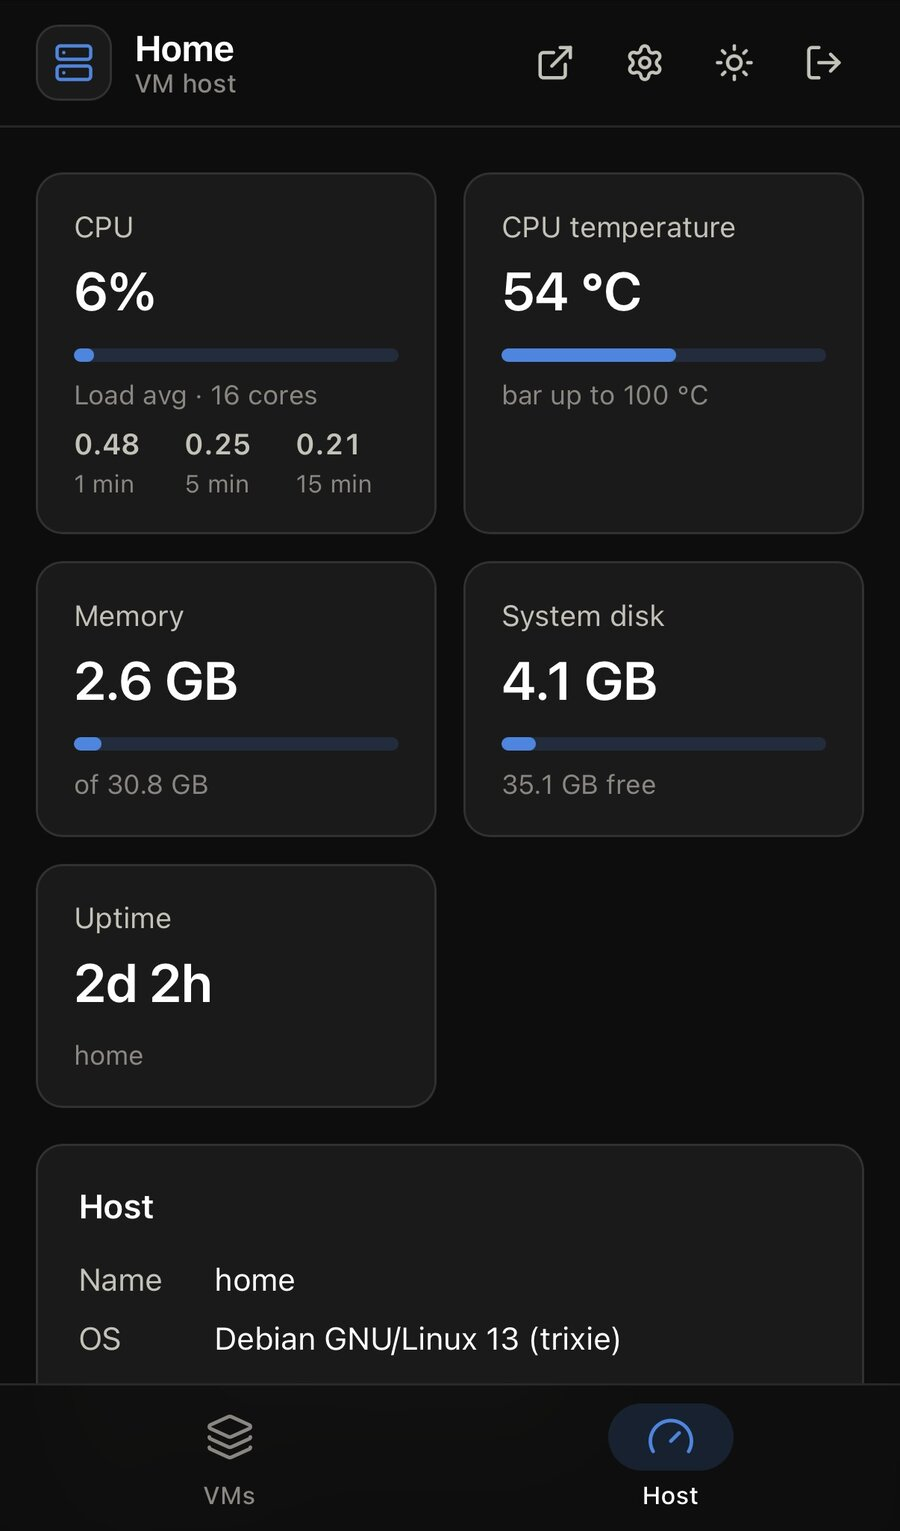
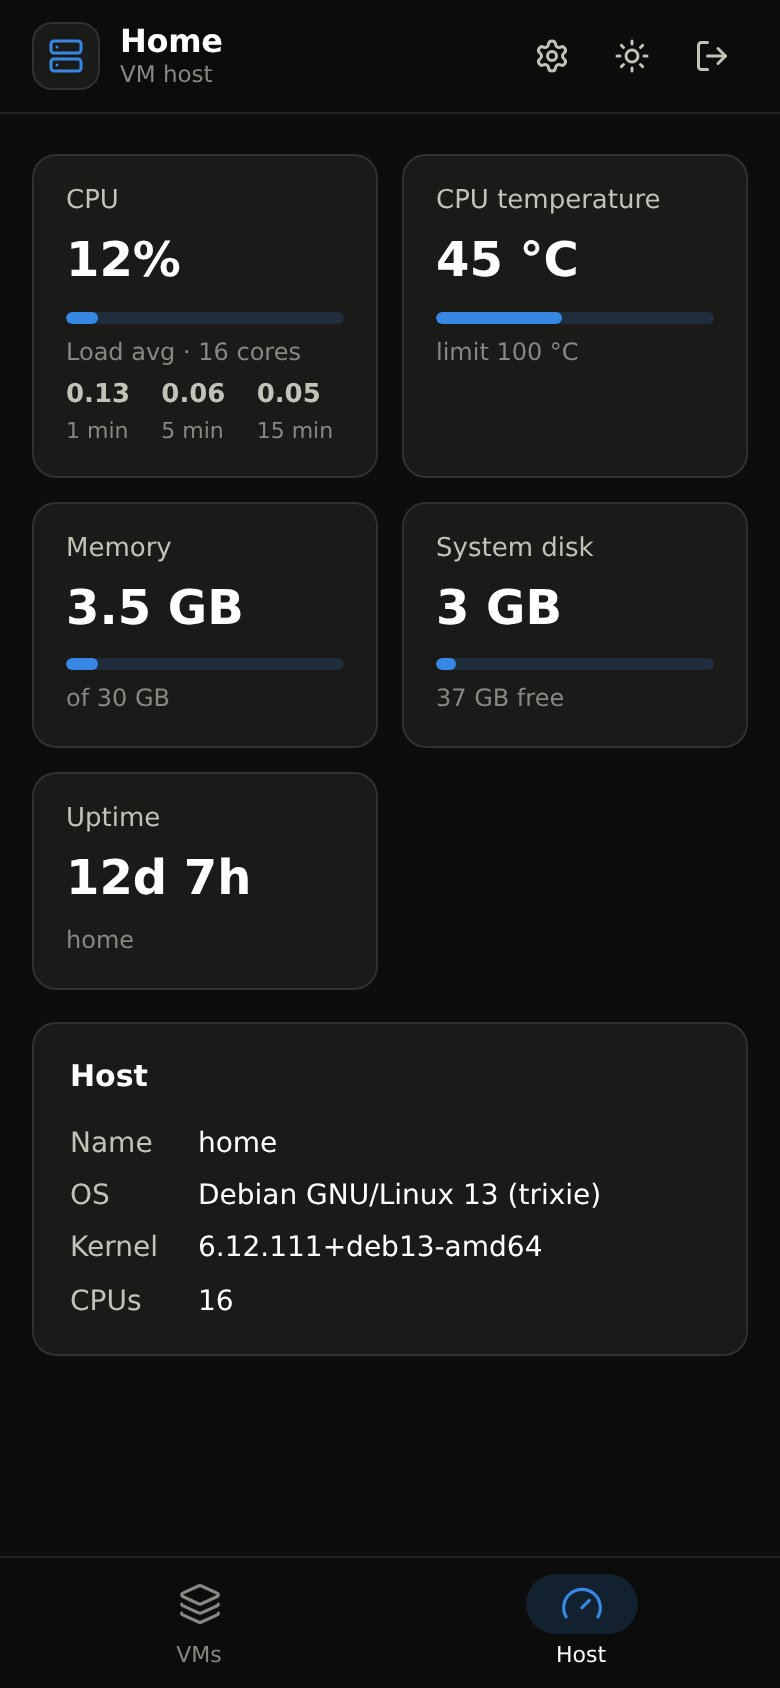
README: fresh screenshots of every screen (a gallery of 11, the top row now VMs, a VM, its console, the host), taken at phone width from the mock data
The mock data follows: a documentation address (203.0.113.7) for the router's WAN, and an update's output and
version as v0.5.0 prints them.

Claude-Session: https://claude.ai/code/session_01Uwz9VR6qc8qvTUDWKB8RYu

diff --git a/backend/HomeBackend/Features/Update/MockUpdateRunner.cs b/backend/HomeBackend/Features/Update/MockUpdateRunner.cs
@@ -8,13 +8,14 @@ public sealed class MockUpdateRunner : IUpdateRunner
     private static readonly TimeSpan Duration = TimeSpan.FromSeconds(6);
     private static readonly string[] Lines =
     [
-        "From github.com:poltavetsvolodymyr/home-ve",
-        "   b53fc33..4a74ac7  main       -> origin/main",
-        "Updating b53fc33..4a74ac7",
-        "4a74ac7 No underline on links; card hover only with a real pointer",
+        "channel stable: v0.4.0 -> v0.5.0",
+        "2a90a19 install.sh: no more taking PasswordHash out of config.json",
+        "==> downloading https://github.com/poltavetsvolodymyr/home-ve/releases/download/v0.5.0/home-ve-v0.5.0-linux-x64.tar.gz",
+        "==> build of 2a90a19 in place (v0.5.0/home-ve-v0.5.0-linux-x64.tar.gz)",
+        "==> version v0.5.0",
         "==> VM tools",
         "==> frontend -> /var/www/home",
-        "Done. The backend listens on 127.0.0.1:5000; nginx serves the UI (docs/deployment.md).",
+        "Done. The web UI: https://192.168.178.2/ (docs/deployment.md).",
     ];
 
     private readonly Lock _lock = new();
@@ -36,7 +37,7 @@ public sealed class MockUpdateRunner : IUpdateRunner
         return Task.FromResult(new UpdateStatus(done ? "succeeded" : "running", s, done ? s + Duration : null, log));
     }
 
-    public string? ReadVersion() => "v0.1.0-3-g4a74ac7";
+    public string? ReadVersion() => "v0.5.0";
 
     public Task StartAsync(CancellationToken ct)
     {

diff --git a/backend/HomeBackend/Features/Vms/MockVmHost.cs b/backend/HomeBackend/Features/Vms/MockVmHost.cs
@@ -98,7 +98,7 @@ public sealed class MockVmHost : IVmHost
             ? ("""
                {"return": [
                  {"name": "lo", "ip-addresses": [{"ip-address-type": "ipv4", "ip-address": "127.0.0.1", "prefix": 8}]},
-                 {"name": "ppp0", "ip-addresses": [{"ip-address-type": "ipv4", "ip-address": "84.150.12.7", "prefix": 32}]},
+                 {"name": "ppp0", "ip-addresses": [{"ip-address-type": "ipv4", "ip-address": "203.0.113.7", "prefix": 32}]},
                  {"name": "br-lan", "hardware-address": "bc:24:11:14:4d:cd", "ip-addresses": [
                    {"ip-address-type": "ipv4", "ip-address": "192.168.178.1", "prefix": 24},
                    {"ip-address-type": "ipv6", "ip-address": "fd00::1", "prefix": 64},

diff --git a/README.md b/README.md
@@ -5,9 +5,9 @@ you run from the browser, on a computer or a phone: create and install VMs, watc
 encrypted copy off-site. No Proxmox, no custom kernel or distribution, and the web UI never runs as root.
 
 <p align="center">
-  <img src="docs/screenshots/vms.jpg" width="24%" alt="The VM list: a router VM running with its CPU and memory, a stopped test VM">
-  <img src="docs/screenshots/console.jpg" width="24%" alt="A VM's console in the browser, with a key panel for phones">
-  <img src="docs/screenshots/new-vm.jpg" width="24%" alt="The New VM form: name, CPUs, memory, disk, CD drive, autostart, nightly backup">
+  <img src="docs/screenshots/vms.jpg" width="24%" alt="The VM list: a router VM running, with its CPU, memory and address, and a stopped test VM">
+  <img src="docs/screenshots/vm-summary.jpg" width="24%" alt="A VM's page: its buttons, load, uptime, the guest's IP addresses and its hardware">
+  <img src="docs/screenshots/vm-console.jpg" width="24%" alt="A VM's console in the browser, with a key panel and a text field for phones">
   <img src="docs/screenshots/host.jpg" width="24%" alt="Host status: CPU and load, CPU temperature, memory, system disk, uptime">
 </p>
 
@@ -41,9 +41,34 @@ as many VMs as its CPU, memory and disks allow, and it grows by adding disks to 
 - ISO images downloaded by the host from a URL;
 - backups: nightly and on demand, restore, undo a restore;
 - optional encrypted offsite copy of the backups (rclone to Cloudflare R2);
-- self-update from the web UI.
+- self-update from the web UI, stable or dev channel;
+- first-run setup: the password is chosen in the browser, with a code only the host knows.
 
 Getting started: [docs/deployment.md](docs/deployment.md), from preparing the host to the first VM.
+
+## Screenshots
+
+On a phone (390 px wide), with the mock data the backend serves in development.
+
+<table>
+  <tr>
+    <td align="center" width="25%"><img src="docs/screenshots/vms.jpg" alt="The VM list"><br><sub>VMs</sub></td>
+    <td align="center" width="25%"><img src="docs/screenshots/vm-summary.jpg" alt="A VM's summary: load, IP addresses, hardware"><br><sub>A VM</sub></td>
+    <td align="center" width="25%"><img src="docs/screenshots/vm-console.jpg" alt="A VM's console with the key panel"><br><sub>Console</sub></td>
+    <td align="center" width="25%"><img src="docs/screenshots/vm-settings.jpg" alt="A VM's settings: CPUs, memory, autostart, backup, CD drive, network cards"><br><sub>VM settings</sub></td>
+  </tr>
+  <tr>
+    <td align="center" width="25%"><img src="docs/screenshots/vm-backups.jpg" alt="A VM's backups: back up now, restore, delete"><br><sub>Backups</sub></td>
+    <td align="center" width="25%"><img src="docs/screenshots/vm-logs.jpg" alt="A VM's log from the journal"><br><sub>The VM's log</sub></td>
+    <td align="center" width="25%"><img src="docs/screenshots/new-vm.jpg" alt="The New VM form"><br><sub>New VM</sub></td>
+    <td align="center" width="25%"><img src="docs/screenshots/isos.jpg" alt="ISO images: download by URL, the list with sizes"><br><sub>ISO images</sub></td>
+  </tr>
+  <tr>
+    <td align="center" width="25%"><img src="docs/screenshots/host.jpg" alt="Host status"><br><sub>Host</sub></td>
+    <td align="center" width="25%"><img src="docs/screenshots/settings.jpg" alt="Settings: update channel and the last update's output, offsite backup"><br><sub>Update and offsite copy</sub></td>
+    <td align="center" width="25%"><img src="docs/screenshots/login.jpg" alt="The sign-in page"><br><sub>Sign in</sub></td>
+  </tr>
+</table>
 
 ## How it works
 
